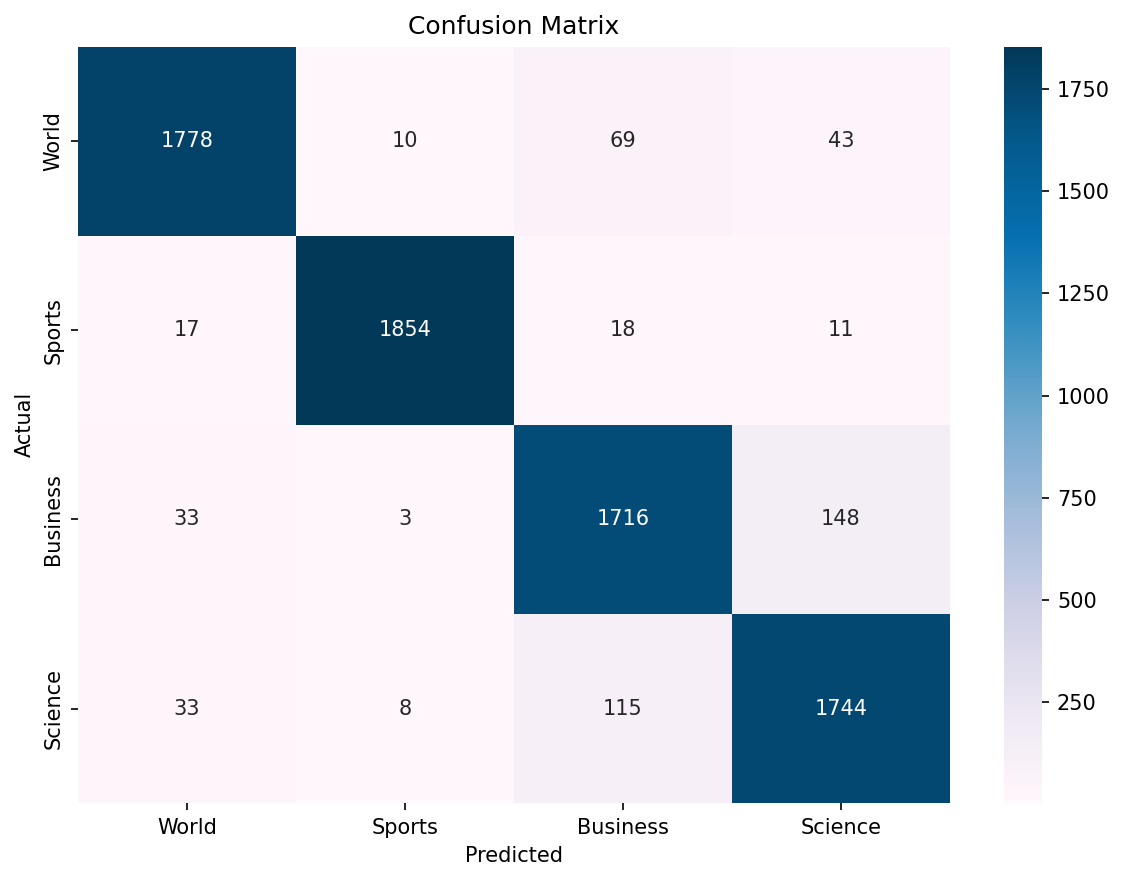
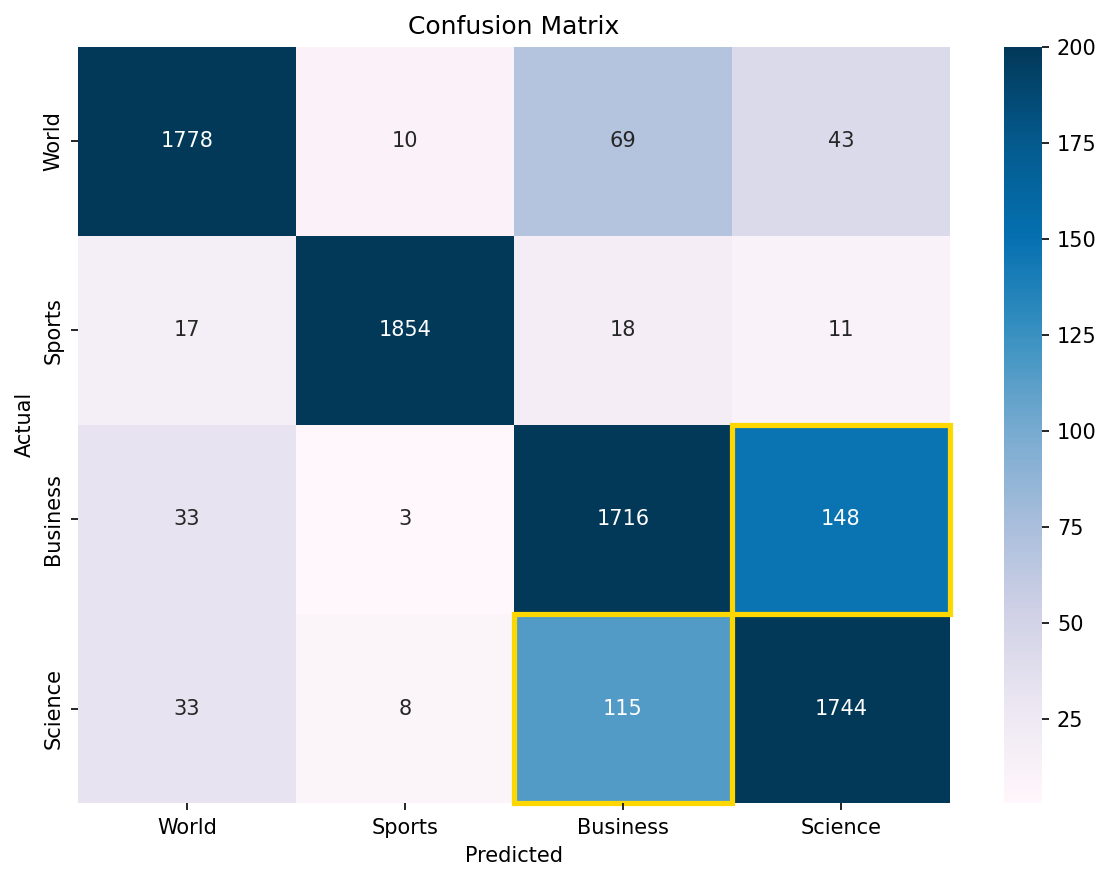
refactor: color scaling and highlight boxes for confusion matrix

diff --git a/src/evaluate.py b/src/evaluate.py
@@ -2,6 +2,8 @@ import torch
 import matplotlib.pyplot as plt
 import seaborn as sns
 import os
+
+from matplotlib.patches import Rectangle
 from sklearn.metrics import classification_report, confusion_matrix
 from transformers import BertTokenizer
 
@@ -61,9 +63,19 @@ def evaluate(output_path="assets/confusion_matrix.png"):
 
     fix, ax = plt.subplots(figsize=(8, 6))
     sns.heatmap(
-        cm, annot=True, fmt='d', cmap='PuBu',
-        xticklabels=CLASS_NAMES, yticklabels=CLASS_NAMES, ax=ax
+        cm, annot=True, fmt='d', cmap='PuBu', vmax=200,
+        xticklabels=CLASS_NAMES, yticklabels=CLASS_NAMES, ax=ax,
     )
+
+    # Highlight Business-Science mirror cells
+    ax.add_patch(Rectangle(
+        (3, 2), 1, 1, fill=False, edgecolor='gold',
+        linewidth=2.5, clip_on=False
+    ))
+    ax.add_patch(Rectangle(
+        (2, 3), 1, 1, fill=False, edgecolor='gold',
+        linewidth=2.5, clip_on=False
+    ))
 
     ax.set_xlabel('Predicted')
     ax.set_ylabel('Actual')
@@ -77,7 +89,7 @@ def evaluate(output_path="assets/confusion_matrix.png"):
 
     # Print Error Analysis
 
-    print_error_analysis(all_texts, all_targets, all_preds)
+    # print_error_analysis(all_texts, all_targets, all_preds)
 
 def print_error_analysis(texts, targets, preds, n=20):
     """